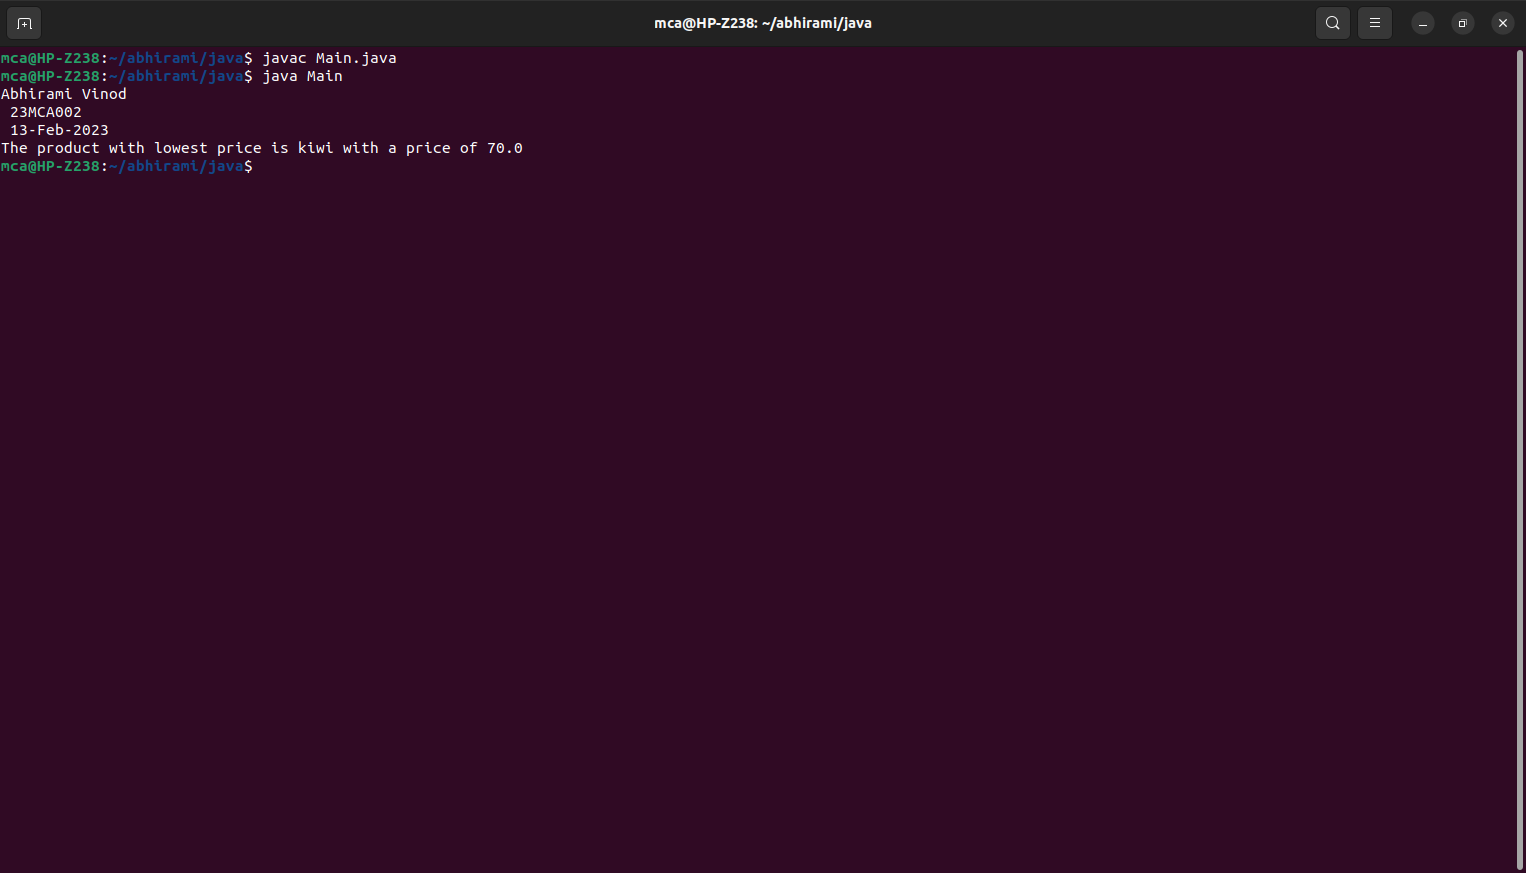
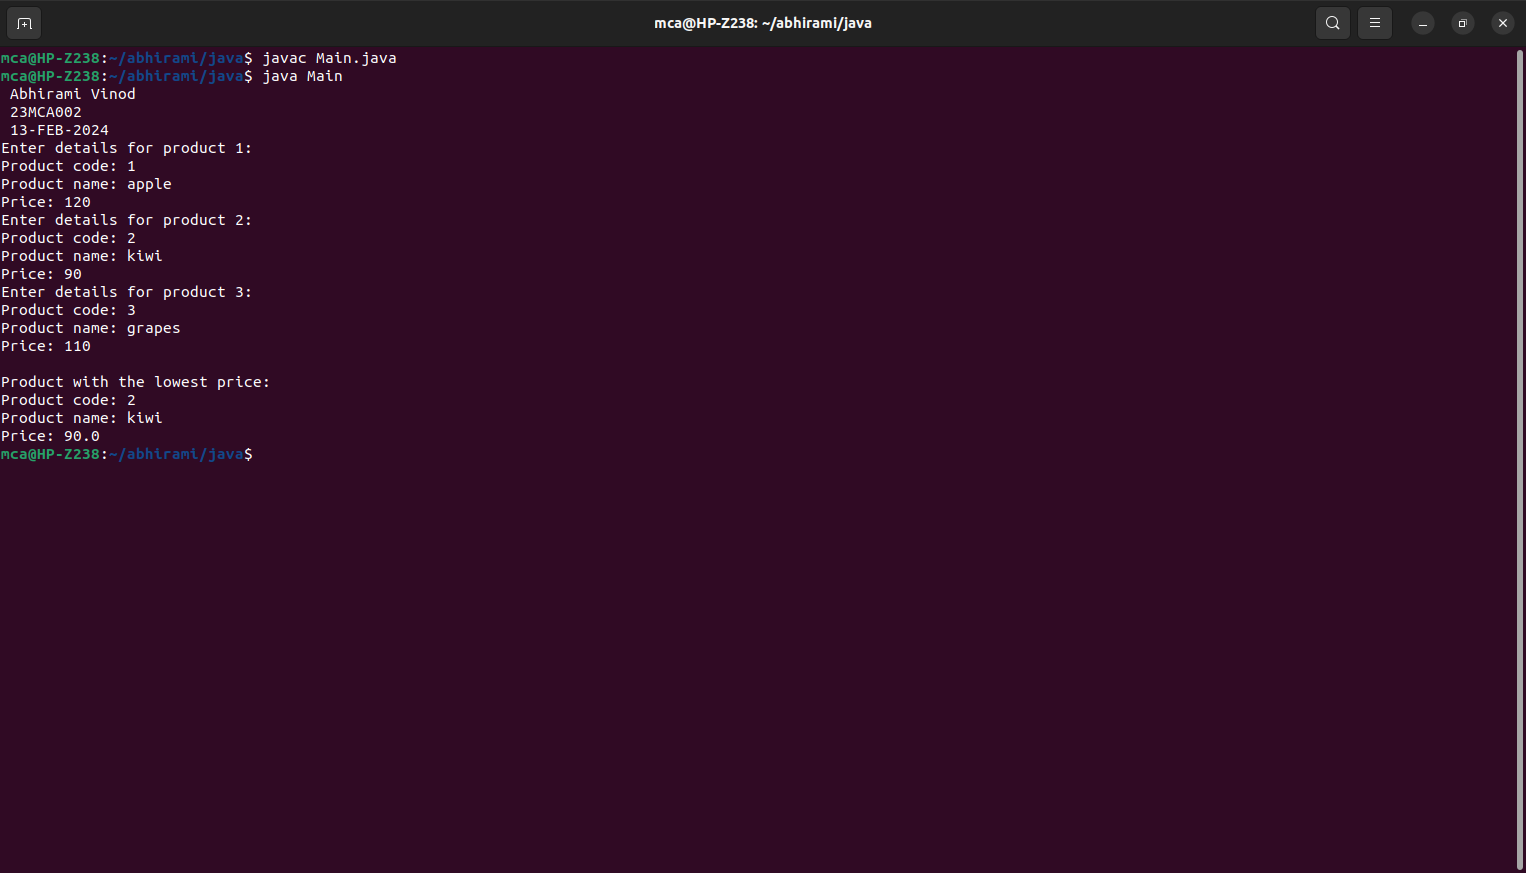
Add files via upload

Changed region(s): [[0.0, 0.0928, 0.3388, 0.4021], [0.0, 0.433, 0.1848, 0.5258]]

diff --git a/Main.java b/Main.java
@@ -1,30 +1,50 @@
-class Product{
-int pcode;
-String pname;
-double price;
-public Product(int a,String b,double c)
-{
-pcode=a;
-pname=b;
-price=c;
+import java.util.Scanner;
+
+class Product {
+    String pcode;
+    String pname;
+    double price;
+
+    public Product(String pcode, String pname, double price) {
+        this.pcode = pcode;
+        this.pname = pname;
+        this.price = price;
+    }
 }
-}
-public class Main{
-public static void main(String []args)
-{
-System.out.println("Abhirami Vinod\n 23MCA002\n 13-Feb-2023");
-Product p1=new Product(1,"Apple",150);
-Product p2=new Product(2,"kiwi",70);
-Product p3=new Product(3,"Grapes",160);
-Product cheapestproduct=p1;
-if(p2.price<cheapestproduct.price)
-{
-cheapestproduct=p2;
-}
-if(p3.price<cheapestproduct.price)
-{
-cheapestproduct=p3;
-}
-System.out.println("The product with lowest price is "+cheapestproduct.pname+" with a price of "+cheapestproduct.price);
-}
+
+class Main {
+    public static void main(String[] args) {
+        Scanner scanner = new Scanner(System.in);
+
+       
+        Product[] products = new Product[3];
+        System.out.println(" Abhirami Vinod \n 23MCA002 \n 13-FEB-2024");
+        for (int i = 0; i < products.length; i++) {
+            System.out.println("Enter details for product " + (i + 1) + ":");
+            System.out.print("Product code: ");
+            String pcode = scanner.nextLine();
+            System.out.print("Product name: ");
+            String pname = scanner.nextLine();
+            System.out.print("Price: ");
+            double price = scanner.nextDouble();
+            scanner.nextLine(); 
+            products[i] = new Product(pcode, pname, price);
+        }
+
+        
+        Product lowestPriceProduct = products[0];
+        for (int i = 1; i < products.length; i++) {
+            if (products[i].price < lowestPriceProduct.price) {
+                lowestPriceProduct = products[i];
+            }
+        }
+
+        
+        System.out.println("\nProduct with the lowest price:");
+        System.out.println("Product code: " + lowestPriceProduct.pcode);
+        System.out.println("Product name: " + lowestPriceProduct.pname);
+        System.out.println("Price: " + lowestPriceProduct.price);
+
+        scanner.close();
+    }
 }
